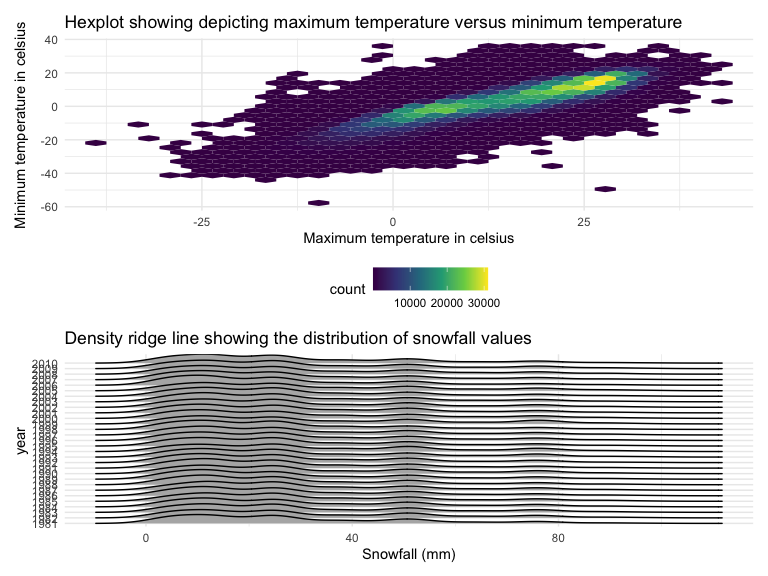
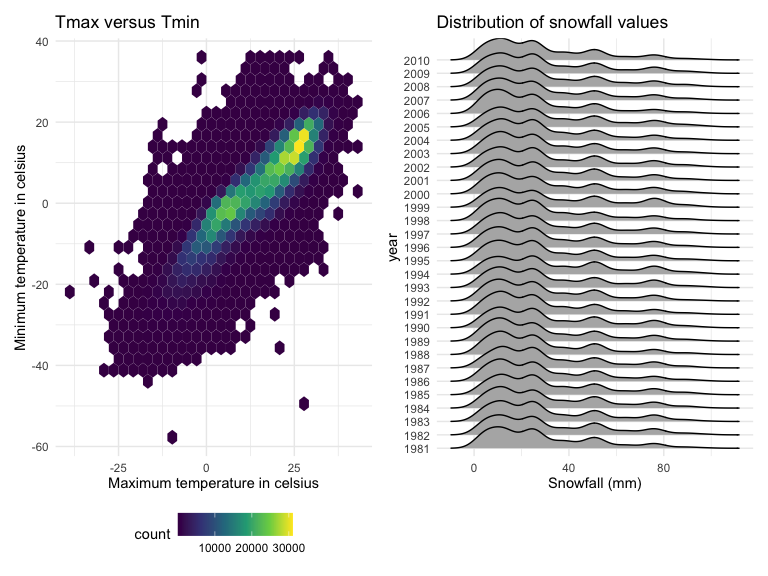
commit - amended the title and also edited the arrangement of the 2-panel plot in question 3

diff --git a/p8105_hw3_yk2959.md b/p8105_hw3_yk2959.md
@@ -1,6 +1,6 @@
-Homework 3 new
+Homework 3
 ================
-Kiran Kui
+Kiran Kui yk2959
 2022-10-17
 
 # Problem 1
@@ -255,13 +255,13 @@ schedule dependent on days of the week.
 
 # Problem 3
 
-### I have loaded and explored the ny_noaa dataset.
-
 ``` r
 #Loading the dataset and exploring the dataset
 library(p8105.datasets)
 data("ny_noaa")
 ```
+
+I have loaded and explored the ny_noaa dataset.
 
 There are 7 rows(observations) and 2595176 columns variables in this
 dataset. Each row refers to a single daily observation from a weather
@@ -420,7 +420,7 @@ at 1998. This value is lower than the rest of the value.
 tmax_tmin = ny_noaa %>% 
   drop_na() %>%
   ggplot(aes(x = tmax_c, y=tmin_c)) + geom_hex() + 
-  labs(title = "Hexplot showing depicting maximum temperature versus minimum temperature",
+  labs(title = "Tmax versus Tmin",
     x = "Maximum temperature in celsius",
     y = "Minimum temperature in celsius") 
 
@@ -428,11 +428,11 @@ snowfall_dist = ny_noaa %>%
   drop_na() %>%
   filter (snow>0 & snow<100) %>% 
   ggplot(aes(x = snow, y = year)) + geom_density_ridges() + 
-  labs(title = "Density ridge line showing the distribution of snowfall values", 
+  labs(title = "Distribution of snowfall values", 
        x="Snowfall (mm)",
        y="year")
                                           
-tmax_tmin / snowfall_dist
+tmax_tmin + snowfall_dist
 ```
 
     ## Picking joint bandwidth of 4.24
